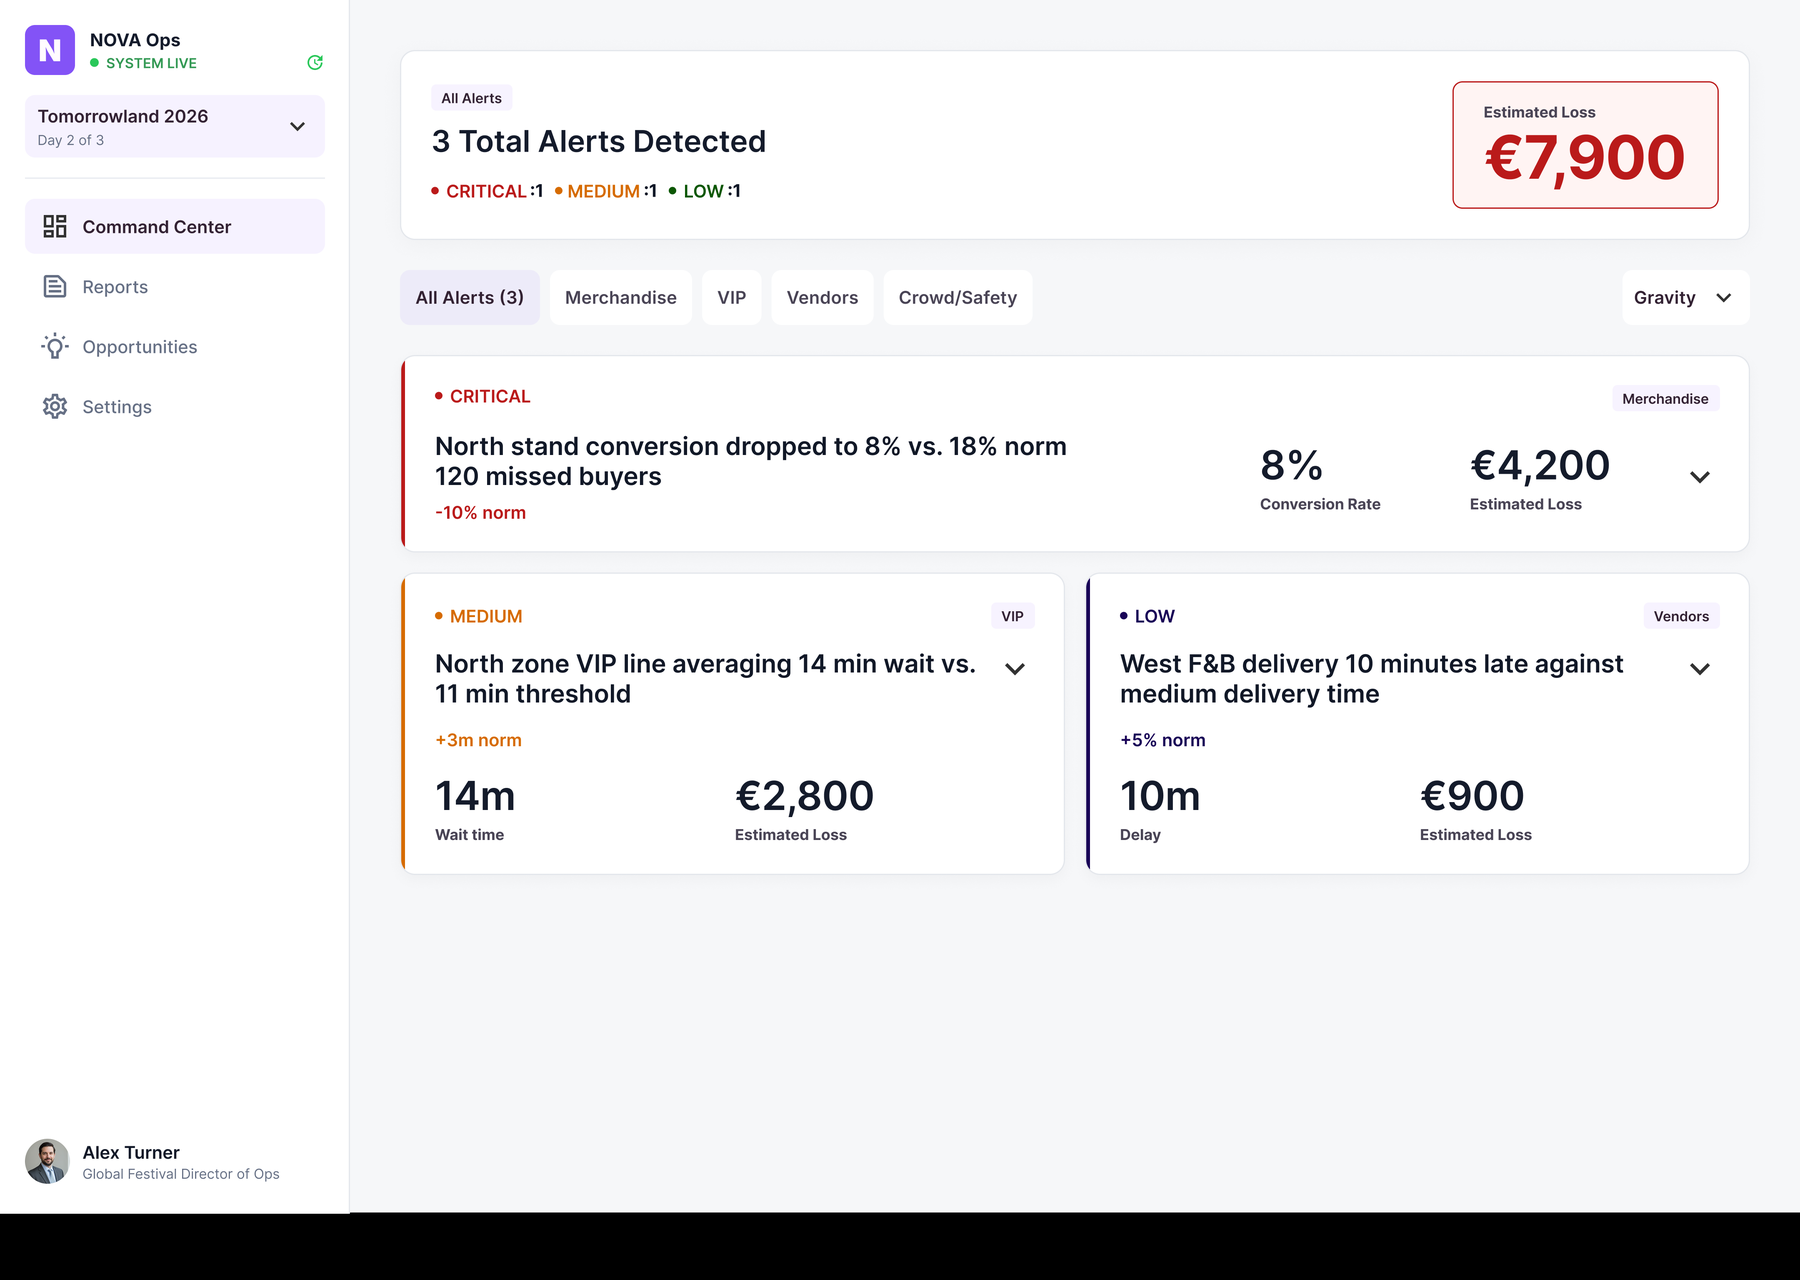
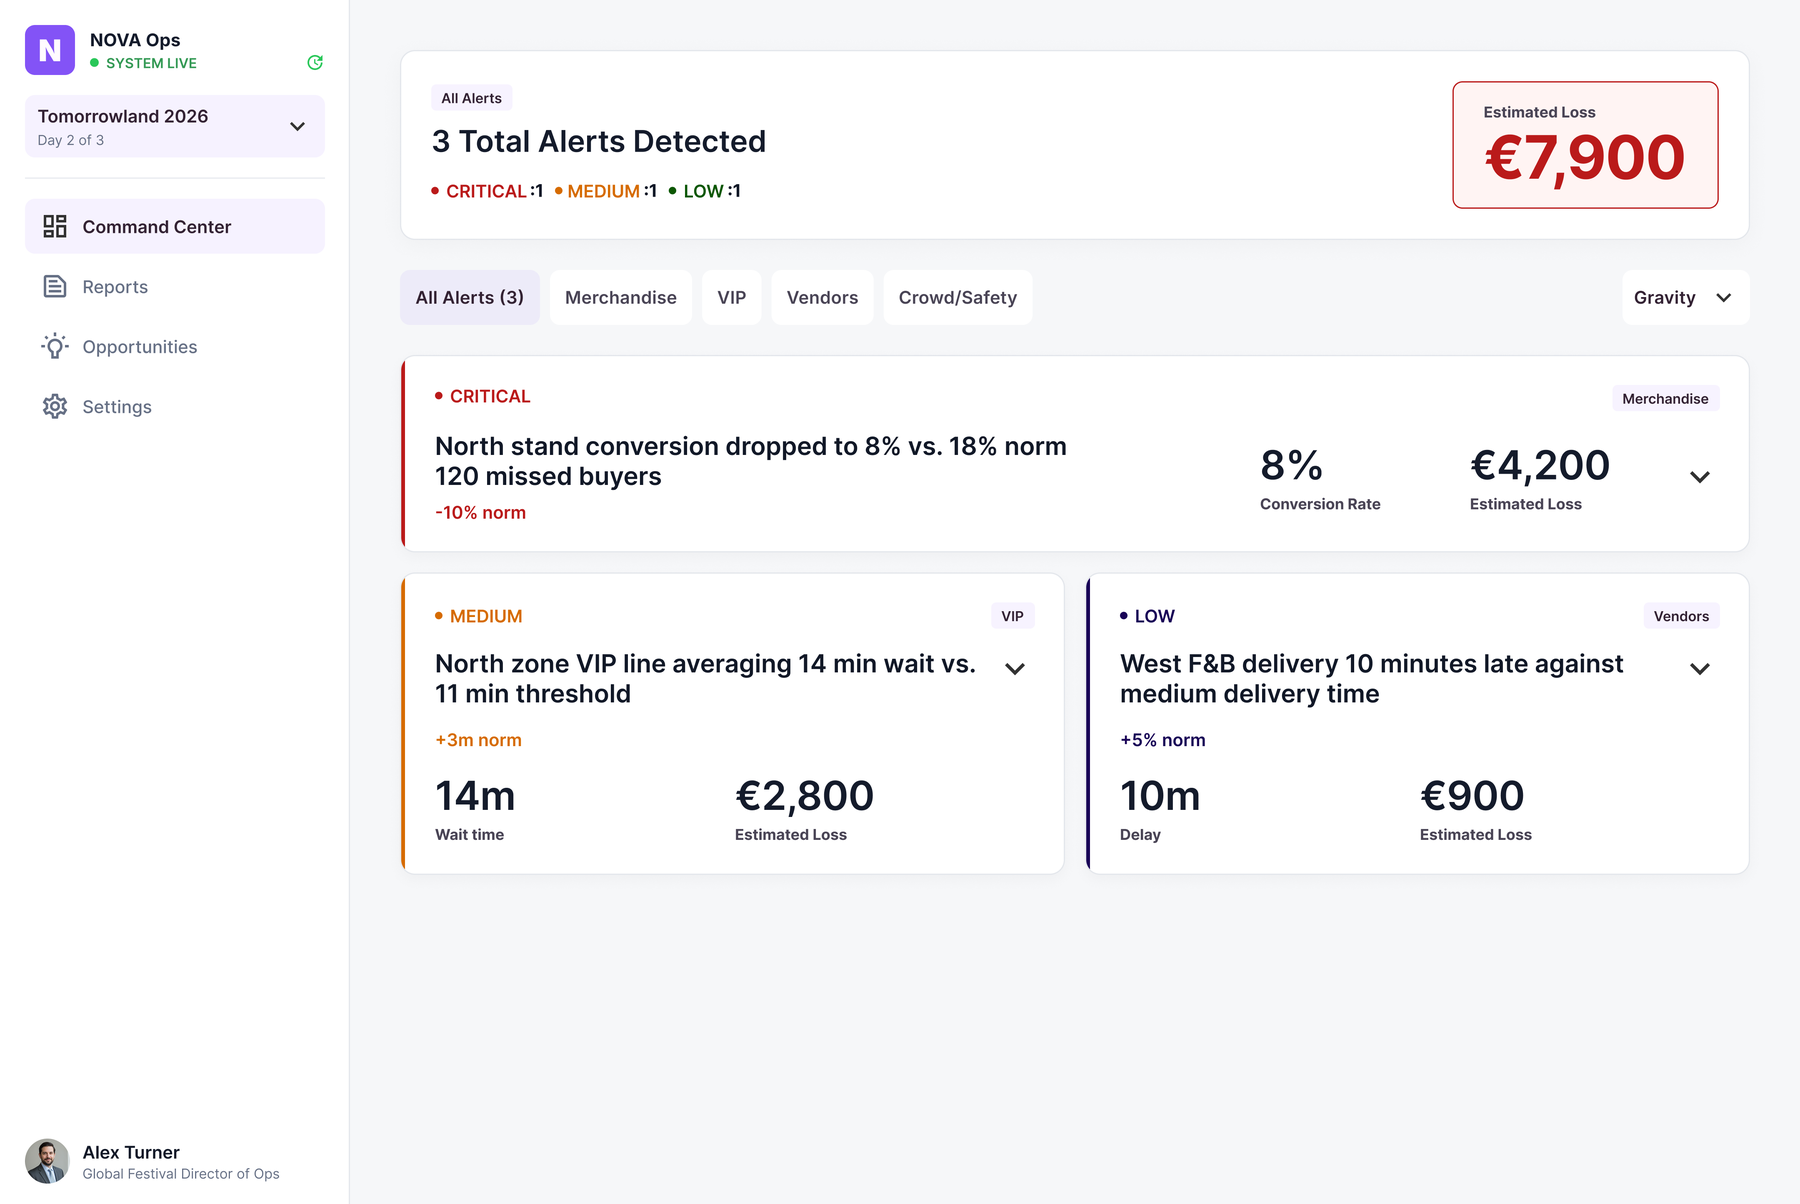
Clean up homepage: remove dev notes/placeholders, sharpen senior/AI positioning
Visible dev-facing text was live on the public homepage (a broken contact
form telling visitors it has no backend, "Add real metric" TODOs, and a
testimonials section whose placeholder text literally said "I won't
invent quotes attributed to real people"). Removed all of it:
- Contact form replaced with a working mailto + LinkedIn CTA (the form
  never had a backend, so it only ever misled visitors)
- Removed the "Add real metric" placeholder boxes from work cards
- Removed the 2 fake fun-facts, kept the real one
- Removed the testimonials section entirely until real quotes exist
- Cleaned the Unes/UniCredit thumb captions (no more Figma export jargon)

Fixed a real asset bug: nova-command-center.png had a transparent margin
in the original export that flattening to RGB turned into a solid black
band at the bottom, both in the hero image and the homepage thumbnail.
Cropped to the actual content bounds before flattening.

Sharpened copy for seniority and AI-relevant roles, grounded in cv.md /
config/profile.yml (already-approved job-search narrative): hero eyebrow
now matches her real title exactly ("Senior Product & UX/UI Designer"),
added an AI-Aware Design skills row, reworded the Process steps to
reflect real practices from the NOVA Ops case study (human-in-the-loop,
explainability), and added an AI-powered-products stat to the hero.

diff --git a/index.html b/index.html
@@ -3,8 +3,8 @@
 <head>
 <meta charset="UTF-8">
 <meta name="viewport" content="width=device-width, initial-scale=1.0">
-<title>Giorgia Colletti: Product &amp; UX/UI Designer</title>
-<meta name="description" content="Giorgia Colletti, Senior Product &amp; UX/UI Designer. I design digital products that people actually enjoy using.">
+<title>Giorgia Colletti — Senior Product &amp; UX/UI Designer</title>
+<meta name="description" content="Giorgia Colletti, Senior Product &amp; UX/UI Designer with 7+ years designing human-centered digital products at PwC and Jakala, from Design Systems and WCAG 2.2 accessibility to AI-powered product experiences.">
 <link rel="preconnect" href="https://fonts.googleapis.com">
 <link rel="preconnect" href="https://fonts.gstatic.com" crossorigin>
 <link href="https://fonts.googleapis.com/css2?family=DM+Sans:wght@500;700;800&family=Inter:wght@400;500;600;700&display=swap" rel="stylesheet">
@@ -44,12 +44,13 @@
   <section class="hero">
     <div class="container hero-grid">
       <div class="hero-copy reveal">
-        <div class="hero-eyebrow"><span class="dot"></span> Product &amp; UX/UI Design Lead</div>
+        <div class="hero-eyebrow"><span class="dot"></span> Senior Product &amp; UX/UI Designer</div>
         <h1>I design digital products that people <em>actually enjoy</em> using.</h1>
         <p class="hero-subtitle">
-          7+ years leading end-to-end design for teams at PwC and Jakala, turning complex,
-          multi-stakeholder problems into interfaces that are accessible, usable, and genuinely
-          good to use. From research to Design Systems to WCAG 2.2 governance.
+          7+ years leading end-to-end product design at PwC and Jakala, turning complex,
+          multi-stakeholder problems, AI-powered products included, into interfaces that are
+          accessible, usable, and genuinely good to use. From research to Design Systems to
+          WCAG 2.2 governance.
         </p>
         <div class="hero-ctas">
           <a href="#work" class="btn btn-primary">View My Work</a>
@@ -57,7 +58,7 @@
         </div>
         <div class="hero-meta">
           <div><strong>7+</strong><span>Years Experience</span></div>
-          <div><strong>2</strong><span>Consulting &amp; Agency Firms</span></div>
+          <div><strong>3</strong><span>AI-Powered Products Designed</span></div>
           <div><strong>5</strong><span>Languages Spoken</span></div>
         </div>
       </div>
@@ -104,7 +105,6 @@
             <div class="work-tags"><span>Product Design</span><span>Web &amp; Mobile</span><span>2025</span></div>
             <h3>Photovoltaic Monitoring Platform</h3>
             <p class="work-desc">End-to-end design of a web platform and companion mobile app for photovoltaic monitoring, built for a major Italian energy utility, from kick-off and discovery through workshop-driven iteration, giving operators clearer control over plant performance. Shipped and live.</p>
-            <div class="work-metric is-placeholder">Add real metric, e.g. task completion time, adoption rate.</div>
             <a href="work/photovoltaic-monitoring-platform.html" class="work-link">View Case Study →</a>
           </div>
         </article>
@@ -117,7 +117,6 @@
             <div class="work-tags"><span>Product Design</span><span>AI/UX</span><span>2026</span></div>
             <h3>NOVA Ops</h3>
             <p class="work-desc">Concept redesign of a B2B SaaS platform's daily revenue audit workflow, turning an overwhelming AI data dump into an agentic command center a festival operations director can trust, and using that trust as the precondition for product-led growth.</p>
-            <div class="work-metric is-placeholder">Concept project, not shipped.</div>
             <a href="work/nova-ops.html" class="work-link">View Case Study →</a>
           </div>
         </article>
@@ -125,13 +124,12 @@
         <article class="work-card reveal">
           <div class="work-thumb placeholder">
             <span class="placeholder-icon">🛒</span>
-            <span class="placeholder-label">Screenshot placeholder, export from Figma: "Unes _ App Loyalty 2023" or "Registrazione, Login &amp; Profilo".</span>
+            <span class="placeholder-label">Case study preview coming soon</span>
           </div>
           <div class="work-body">
             <div class="work-tags"><span>Product Design</span><span>Loyalty App</span><span>2024</span></div>
             <h3>Unes: Omnichannel Loyalty App</h3>
             <p class="work-desc">Designed registration, login and profile flows for Unes' loyalty app, backed by a dedicated Design System to keep the omnichannel experience consistent.</p>
-            <div class="work-metric is-placeholder">Add real metric.</div>
             <a href="work/unes-loyalty.html" class="work-link">View Case Study →</a>
           </div>
         </article>
@@ -139,13 +137,12 @@
         <article class="work-card reveal">
           <div class="work-thumb placeholder">
             <span class="placeholder-icon">♿</span>
-            <span class="placeholder-label">Screenshot placeholder, export from Figma: "UC CEEE - Design APP" or "Web responsive - BRICKS DS".</span>
+            <span class="placeholder-label">Case study preview coming soon</span>
           </div>
           <div class="work-body">
             <div class="work-tags"><span>Design System</span><span>Banking</span><span>2024</span></div>
             <h3>UniCredit: Accessibility &amp; Design System</h3>
             <p class="work-desc">Led accessibility remediation across UniCredit's mobile and web banking products, working within the BRICKS Design System and contributing a dedicated iconset.</p>
-            <div class="work-metric is-placeholder">Add real metric.</div>
             <a href="work/unicredit-accessibility.html" class="work-link">View Case Study →</a>
           </div>
         </article>
@@ -170,25 +167,25 @@
           <div class="process-icon">🔍</div>
           <span class="step-index">01 · Discover</span>
           <h3>Discover</h3>
-          <p>Stakeholder interviews, user research and journey mapping to understand the real problem before designing anything.</p>
+          <p>Stakeholder interviews, user research and journey mapping to frame the real problem, including what "trustworthy" needs to mean when AI or data drives the product.</p>
         </div>
         <div class="process-step reveal">
           <div class="process-icon">🎯</div>
           <span class="step-index">02 · Define</span>
           <h3>Define</h3>
-          <p>Personas, problem framing and success metrics, including accessibility requirements, defined with cross-functional teams.</p>
+          <p>Personas, problem framing and success metrics defined with cross-functional teams, accessibility requirements built in from day one, not bolted on later.</p>
         </div>
         <div class="process-step reveal">
           <div class="process-icon">🎨</div>
           <span class="step-index">03 · Design</span>
           <h3>Design</h3>
-          <p>Wireframes to high-fidelity prototypes, built on scalable Design Systems and validated through usability testing.</p>
+          <p>Wireframes to high-fidelity, human-in-the-loop prototypes, built on scalable Design Systems and validated through usability testing.</p>
         </div>
         <div class="process-step reveal">
           <div class="process-icon">🚀</div>
           <span class="step-index">04 · Deliver</span>
           <h3>Deliver</h3>
-          <p>WCAG 2.2-compliant handoff, close collaboration with engineering, and measuring real-world impact post-launch.</p>
+          <p>WCAG 2.2-compliant handoff, close collaboration with engineering, and measuring real-world impact, adoption, trust, accessibility, post-launch.</p>
         </div>
       </div>
     </div>
@@ -214,6 +211,15 @@
             <span class="chip">Accessibility (WCAG 2.2)</span>
             <span class="chip">End-to-End Strategy</span>
             <span class="chip">Data-driven Design</span>
+          </div>
+        </div>
+        <div class="skills-row">
+          <div class="skills-group-label">AI-Aware Design</div>
+          <div class="chip-row">
+            <span class="chip">AI-Powered Product Design</span>
+            <span class="chip">Human-in-the-Loop UX</span>
+            <span class="chip">Explainable AI Interfaces</span>
+            <span class="chip">Designing with AI Tools</span>
           </div>
         </div>
         <div class="skills-row">
@@ -267,26 +273,21 @@
           I'm a Senior Product &amp; UX/UI Designer with over 7 years of experience driving
           user-centered, visually impactful digital products across diverse industries.
           My path has taken me from Design Systems at Jakala to leading UX and UI design
-          across web and mobile platforms at PwC.
+          across web and mobile platforms at PwC, including end-to-end design on AI-powered
+          products.
         </p>
         <p>
           I specialise in scalable Design Systems and accessibility standards, and I enjoy
           the parts of the job most people skip: governance, documentation, and making sure
-          a product still holds together at scale, not just in the first prototype.
+          a product still holds together at scale, not just in the first prototype. That same
+          instinct is what I bring to AI-powered products: pushing for interfaces that explain
+          themselves and keep a human in the loop, not just ones that look intelligent.
         </p>
 
         <div class="fun-facts">
           <div class="fun-fact">
             <span class="fact-icon">🌍</span>
             <span>Speaks 5 languages, Italian, English, Portuguese, Spanish and French.</span>
-          </div>
-          <div class="fun-fact is-placeholder">
-            <span class="fact-icon">✨</span>
-            <span>Tell me a fun fact about you, hobby, favourite city, weird talent, and I'll add it here.</span>
-          </div>
-          <div class="fun-fact is-placeholder">
-            <span class="fact-icon">✨</span>
-            <span>Second fun fact placeholder.</span>
           </div>
         </div>
 
@@ -298,85 +299,22 @@
   </section>
 
   <!-- ==========================================================================
-       TESTIMONIALS
-       ========================================================================== -->
-  <section id="testimonials">
-    <div class="container">
-      <div class="section-head reveal">
-        <div class="eyebrow">Testimonials</div>
-        <h2>What colleagues say</h2>
-      </div>
-
-      <div class="testimonial-grid">
-        <div class="testimonial-card is-placeholder reveal">
-          <span class="placeholder-icon">💬</span>
-          <p>Placeholder, paste a real quote from a manager or colleague here, with their name and role. I won't invent quotes attributed to real people.</p>
-        </div>
-        <div class="testimonial-card is-placeholder reveal">
-          <span class="placeholder-icon">💬</span>
-          <p>Placeholder, testimonial #2, e.g. from PwC or Jakala.</p>
-        </div>
-        <div class="testimonial-card is-placeholder reveal">
-          <span class="placeholder-icon">💬</span>
-          <p>Placeholder, testimonial #3.</p>
-        </div>
-        <div class="testimonial-card is-placeholder reveal">
-          <span class="placeholder-icon">💬</span>
-          <p>Placeholder, testimonial #4, optional.</p>
-        </div>
-      </div>
-    </div>
-  </section>
-
-  <!-- ==========================================================================
        CONTACT
        ========================================================================== -->
   <section id="contact">
     <div class="container">
       <div class="contact-section reveal">
-        <div class="contact-grid">
+        <div class="contact-grid is-single">
           <div class="contact-info">
             <div class="eyebrow">Get In Touch</div>
             <h2>Let's build something people enjoy using.</h2>
             <p>Open to senior product design, design system lead, and design leadership roles, hybrid or remote, based in Milan.</p>
 
-            <a href="mailto:colletti.giorgia@live.it" class="contact-direct">
-              <span class="icon">✉</span> colletti.giorgia@live.it
-            </a>
-
-            <div class="social-links">
-              <a href="https://www.linkedin.com/in/giorgiacolletti/" target="_blank" rel="noopener" aria-label="LinkedIn">in</a>
-              <a href="mailto:colletti.giorgia@live.it" aria-label="Email">✉</a>
+            <div class="contact-ctas">
+              <a href="mailto:colletti.giorgia@live.it" class="btn btn-primary">✉ colletti.giorgia@live.it</a>
+              <a href="https://www.linkedin.com/in/giorgiacolletti/" target="_blank" rel="noopener" class="btn btn-secondary">Message on LinkedIn ↗</a>
             </div>
           </div>
-
-          <form class="contact-form" id="contactForm">
-            <div class="form-row">
-              <div class="field">
-                <label for="name">Name</label>
-                <input type="text" id="name" name="name" required minlength="2">
-              </div>
-              <div class="field">
-                <label for="email">Email</label>
-                <input type="email" id="email" name="email" required>
-              </div>
-            </div>
-            <div class="field">
-              <label for="projectType">Project Type</label>
-              <select id="projectType" name="projectType">
-                <option value="full-time">Full-time role</option>
-                <option value="contract">Contract / Consulting</option>
-                <option value="collaboration">Collaboration / Project</option>
-                <option value="other">Other</option>
-              </select>
-            </div>
-            <div class="field">
-              <label for="message">Message</label>
-              <textarea id="message" name="message" required minlength="10"></textarea>
-            </div>
-            <button type="submit" class="btn btn-primary" style="width:100%;">Send Message</button>
-            <p class="form-note" id="formNote">Note for dev: this form has no backend yet. Wire it to Formspree, EmailJS or a serverless function before going live.</p>
-          </form>
         </div>
       </div>
     </div>

diff --git a/js/main.js b/js/main.js
@@ -101,19 +101,4 @@ document.addEventListener('DOMContentLoaded', () => {
     revealEls.forEach((el) => el.classList.add('is-visible'));
   }
 
-  // Contact form — no backend wired yet, this is a placeholder handler
-  const form = document.getElementById('contactForm');
-  const formNote = document.getElementById('formNote');
-  if (form) {
-    form.addEventListener('submit', (e) => {
-      e.preventDefault();
-      if (!form.checkValidity()) {
-        form.reportValidity();
-        return;
-      }
-      formNote.textContent = 'This form isn’t connected to anything yet. Hook it up to Formspree, EmailJS or a serverless endpoint to actually receive messages.';
-      formNote.style.color = 'var(--color-primary-dark)';
-      formNote.style.fontWeight = '600';
-    });
-  }
 });

diff --git a/css/styles.css b/css/styles.css
@@ -842,6 +842,21 @@ section {
   padding: 64px;
 }
 
+.contact-grid.is-single {
+  grid-template-columns: 1fr;
+  max-width: 640px;
+  margin-inline: auto;
+  text-align: center;
+}
+
+.contact-ctas {
+  display: flex;
+  gap: 16px;
+  flex-wrap: wrap;
+  justify-content: center;
+  margin-top: 8px;
+}
+
 .contact-info h2 { font-size: var(--fs-h2); margin-bottom: 16px; }
 .contact-info p { color: var(--color-ink-soft); margin-bottom: 32px; }
 
